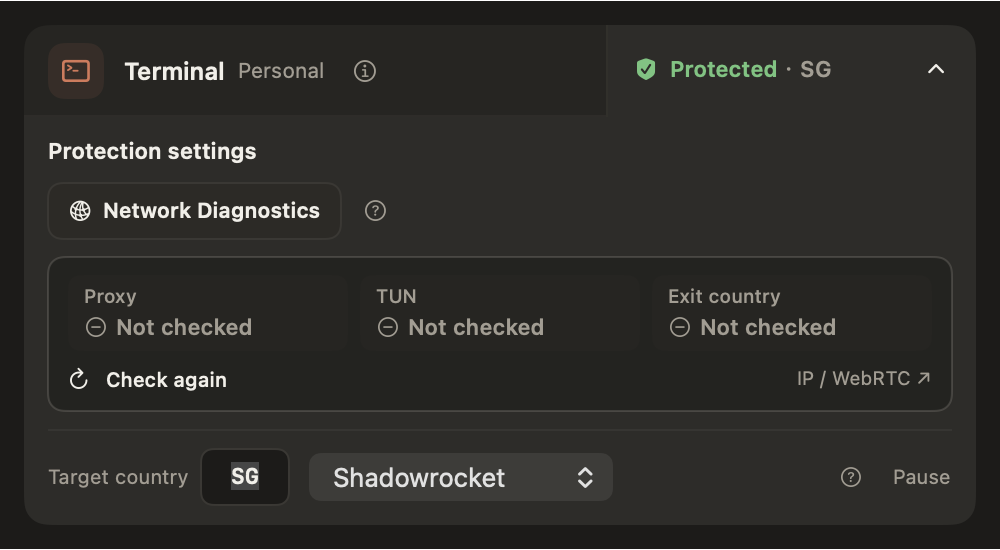
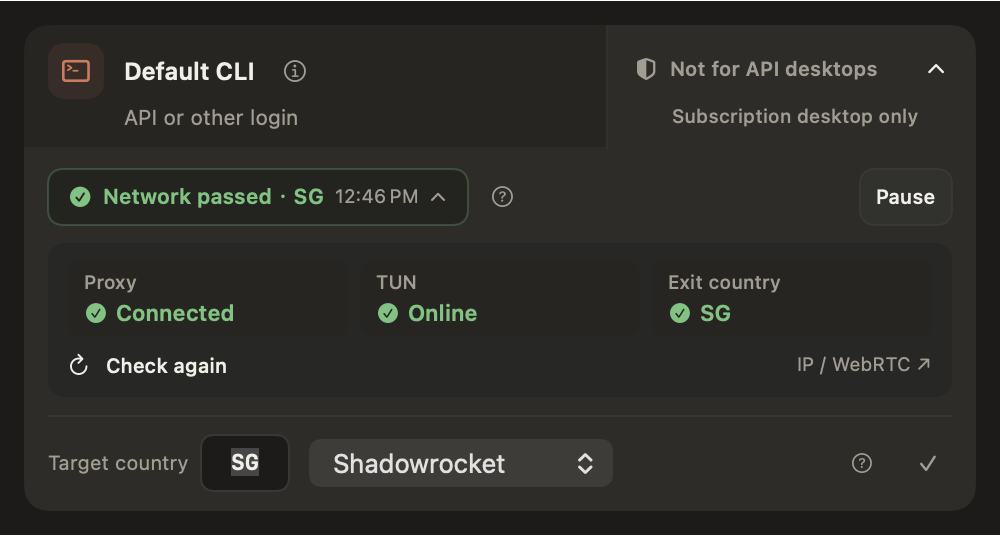
ui: remove redundant protection heading

diff --git a/App/ProtectionView.swift b/App/ProtectionView.swift
@@ -552,7 +552,10 @@ struct TerminalProtectionCard: View {
         Button(action: runProtectionAction) {
             HStack(spacing: 5) {
                 if controller.working { ProgressView().controlSize(.mini) }
-                Text(primaryProtectionTitle).font(.system(size: 10, weight: .medium)).lineLimit(1)
+                Text(primaryProtectionTitle)
+                    .font(.system(size: protectionActionIsSecondary ? 10 : 10.5,
+                                   weight: protectionActionIsSecondary ? .medium : .semibold))
+                    .lineLimit(1)
             }
             .padding(.horizontal, protectionActionIsSecondary ? 8 : 12)
             .frame(maxWidth: protectionActionIsSecondary ? nil : .infinity)
@@ -811,7 +814,8 @@ struct TerminalProtectionCard: View {
             .help(t("protection.checkHelpSummary"))
             .accessibilityLabel(t("protection.checkHelpButton"))
             .popover(isPresented: $showCheckHelp, arrowEdge: .bottom) { checkHelpContent }
-            Spacer(minLength: 0)
+            Spacer(minLength: 8)
+            protectionAction()
         }
     }
 
@@ -858,16 +862,8 @@ struct TerminalProtectionCard: View {
             if hasNotices {
                 VStack(alignment: .leading, spacing: 8) { notices }
             }
-            HStack(spacing: 8) {
-                Text(t("protection.settingsSection"))
-                    .font(.system(size: 11, weight: .semibold)).foregroundColor(.txt)
-                    .lineLimit(1).fixedSize()
-                    .help(scopeHelp)
-                    .accessibilityHint(scopeHelp)
-                Spacer(minLength: 8)
-                if !controller.enabled || needsRetry { protectionAction() }
-            }
             diagnosticRow
+                .help(scopeHelp)
             diagnosticDetails
             Divider().opacity(0.45)
             HStack(alignment: .center, spacing: 10) {
@@ -928,15 +924,11 @@ struct TerminalProtectionCard: View {
                         .opacity(operationLocked || controller.working ? 0.55 : 1)
                         .help(t("protection.saveHelp"))
                     } else {
-                        Button(action: runProtectionAction) {
-                            Text(primaryProtectionTitle)
-                                .font(.system(size: 10)).foregroundColor(.sub)
-                                .frame(height: 28).contentShape(Rectangle())
-                        }
-                        .buttonStyle(.plain)
-                        .disabled(operationLocked || controller.working)
-                        .help(t("protection.primaryHelp"))
-                        .accessibilityLabel(primaryProtectionTitle)
+                        Image(systemName: "checkmark")
+                            .font(.system(size: 9, weight: .semibold)).foregroundColor(.sub)
+                            .frame(width: 24, height: 28)
+                            .help(t("protection.savedHelp"))
+                            .accessibilityHint(t("protection.savedHelp"))
                     }
                 }
             }

diff --git a/docs/releases/1.3.6-rc.12.md b/docs/releases/1.3.6-rc.12.md
@@ -4,7 +4,7 @@
 
 - 未检查时显示「网络诊断」，检查后就地显示通过结果或具体失败原因；点击同一位置展开代理、TUN 和出口详情。
 - 详情内提供「重新诊断」，第三方 IP / WebRTC 体检作为辅助入口放在详情中，不影响保护门禁。
-- 保护暂停改为低强调操作；草稿未保存时仍保留明确的「保存更改」，不牺牲配置修改能力。
+- 删除无信息量的「保护设置」标题，诊断与暂停同行，减少空白；草稿未保存时仍保留明确的「保存更改」。
 - 增加回归：保护中执行网络诊断，保护开关、桌面绑定、守卫判断和回执时间均保持不变。
 - 保留 RC11 的桌面账号独立额度查询、CLI 复用与旧备份恢复、会话导入及底部直接刷新。
 
